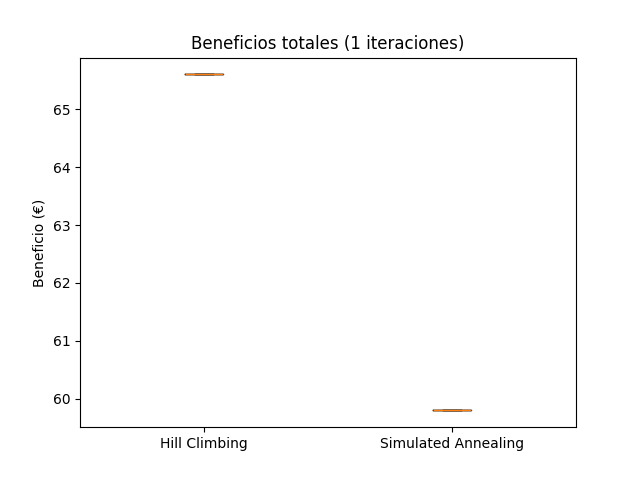
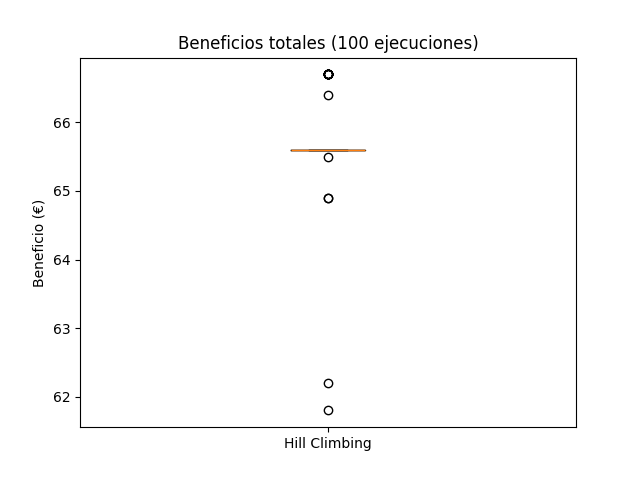
experiments

diff --git a/main.py b/main.py
@@ -243,8 +243,6 @@ def comparar_resultados_HC_SA(HC: bool = True, SA: bool = True, iterations: int 
 def encontrar_parametros_SA() -> tuple:
     pass
 
-
-
 def evolucion_tiempo_ejecucion() -> None:
     pass
 
@@ -283,18 +281,18 @@ if __name__ == "__main__":
     
 
 # Experimento 1 ----------------------------------------------------------------------------------
-    comparar_all_operadores(opt=2, semilla=random.randint(0, 1_000_000), iteraciones=100)
+    """comparar_all_operadores(opt=2, semilla=random.randint(0, 1_000_000), iteraciones=100)"""
 
 # Experimento 2 ----------------------------------------------------------------------------------
-    mejor_initial_state(iteraciones=100)
+    """mejor_initial_state(iteraciones=100)"""
 
 # Experimento 3 ----------------------------------------------------------------------------------
-    k, lam = encontrar_parametros_SA()
+    """k, lam = encontrar_parametros_SA()
 
     def exp_schedule(t, k: float=k, lam: float=lam):
         return k * exp(-lam * t)
     
-    comparar_resultados_HC_SA(opt=2, HC=True, SA=True, iterations=100, schedule_sa=exp_schedule)
+    comparar_resultados_HC_SA(opt=2, HC=True, SA=True, iterations=100, schedule_sa=exp_schedule)"""
 
 # Experimento 4 ----------------------------------------------------------------------------------
     

diff --git a/generate_initial_state_bicing.py b/generate_initial_state_bicing.py
@@ -5,7 +5,7 @@ from state_bicing import EstadoBicing
 from furgoneta_bicing import Furgoneta
 
 # Declaración de funciones
-def generate_initial_state(opt: int = 0, mode_simulated_annealing: bool = False, semilla: Union[int, None] = None, operadores_activos: dict = {operator: True for operator in {'CambiarEstacionCarga', \
+def generate_initial_state(opt: int = 0, semilla: Union[int, None] = None, operadores_activos: dict = {operator: True for operator in {'CambiarEstacionCarga', \
                                                                 'IntercambiarEstacionCarga', \
                                                                     'CambiarOrdenDescarga', \
                                                                         'CambiarEstacionDescarga', \
@@ -115,5 +115,5 @@ def generate_initial_state(opt: int = 0, mode_simulated_annealing: bool = False,
             j += 1"""
 
     
-    state = EstadoBicing(mode_simulated_annealing=mode_simulated_annealing, lista_furgonetas=lista_furgonetas, operadores_activos=operadores_activos)
+    state = EstadoBicing(lista_furgonetas=lista_furgonetas, operadores_activos=operadores_activos)
     return state

diff --git a/state_bicing.py b/state_bicing.py
@@ -18,8 +18,7 @@ from operators_bicing import BicingOperator, \
 from pdb import set_trace as bp
 
 class EstadoBicing(object):
-    def __init__(self, mode_simulated_annealing: bool = False,
-                 lista_furgonetas: list[Furgoneta], \
+    def __init__(self, lista_furgonetas: list[Furgoneta], \
                  operadores_activos: dict = {}) -> None:
         self.operadores_activos = operadores_activos
         self.info_estaciones: list[dict] = [{'index': index, \
@@ -27,7 +26,6 @@ class EstadoBicing(object):
                                     'disp': est.num_bicicletas_no_usadas} \
                                         for index, est in enumerate(params.estaciones)]
         self.lista_furgonetas = lista_furgonetas
-        self.mode_simulated_annealing = mode_simulated_annealing
 
     def __copy(self) -> 'EstadoBicing':
         new_lista_furgonetas: list[Furgoneta] = [furgoneta.copy() for furgoneta in self.lista_furgonetas]

diff --git a/parameters_bicing.py b/parameters_bicing.py
@@ -13,6 +13,6 @@ class Parameters:
 	def __repr__(self) -> str:
 		return f"Params(n_estaciones={self.n_estaciones}, n_bicicletas={self.n_bicicletas}, n_furgonetas={self.n_furgonetas}, seed={self.seed})"
 
-params = Parameters(n_estaciones=25, n_bicicletas=1250, n_furgonetas=5, seed=42, coste_transporte=True)
+params = Parameters(n_estaciones=25, n_bicicletas=1250, n_furgonetas=5, seed=42, coste_transporte=False)
 
 
